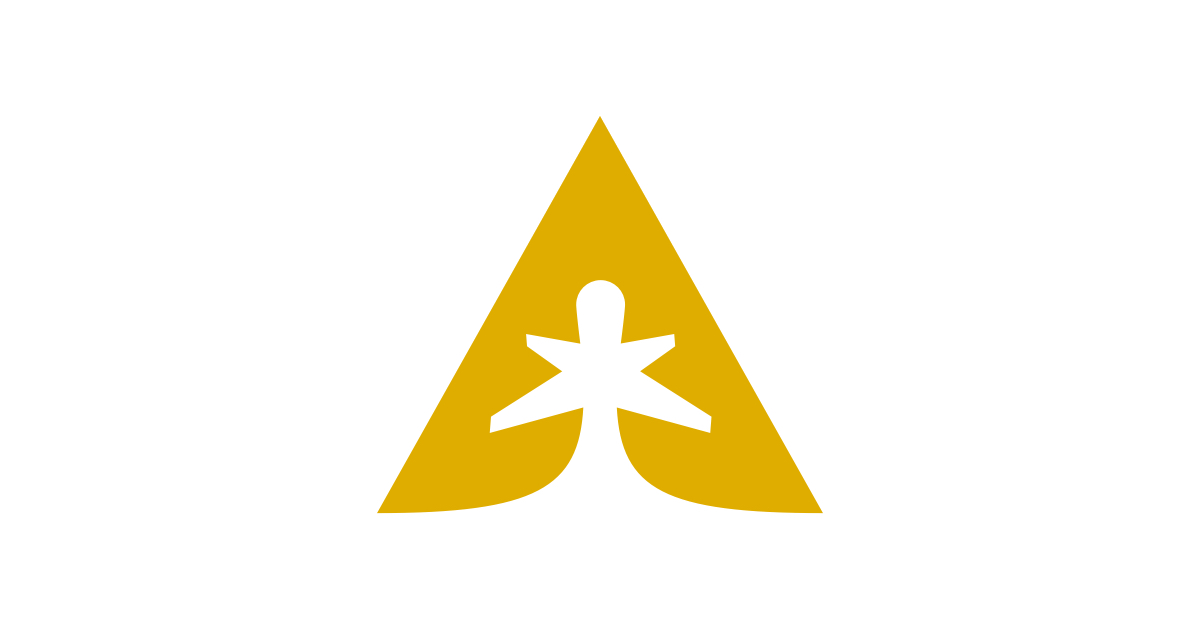
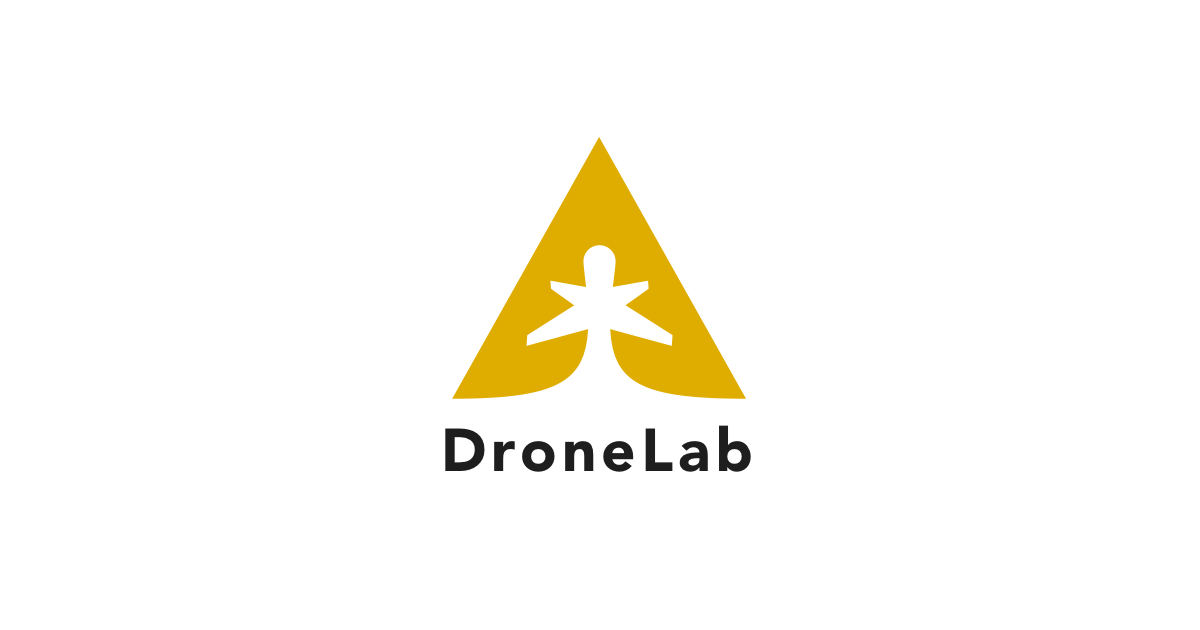
cleaning

Changed region(s): [[0.3083, 0.3317, 0.7092, 0.8143], [0.4625, 0.181, 0.555, 0.3921]]

diff --git a/README.md b/README.md
@@ -2,9 +2,9 @@
 
 _Web development of DroneLabUA site_
 
-<!-- ### Deploy status
+### Deploy status
 
-[![Netlify Status](https://api.netlify.com/api/v1/badges/37334a1c-fa1b-4580-8861-722d6c01115f/deploy-status)](https://app.netlify.com/sites/hornetlab/deploys) -->
+[![Netlify Status](https://api.netlify.com/api/v1/badges/22b20f60-e905-4a49-bf39-8221eeebe42a/deploy-status)](https://app.netlify.com/sites/dronelabua/deploys)
 
 ### Run
 

diff --git a/src/pages/donate.md b/src/pages/donate.md
@@ -1,7 +1,7 @@
 ---
 templateKey: donate-page
 path: /donate
-heroImage: /img/hornetlab_logo_v2.svg
+heroImage: /img/og-image_v1-3.jpg
 heroTitle: Контакти
 heroSubtitle: DroneLab
 ---
